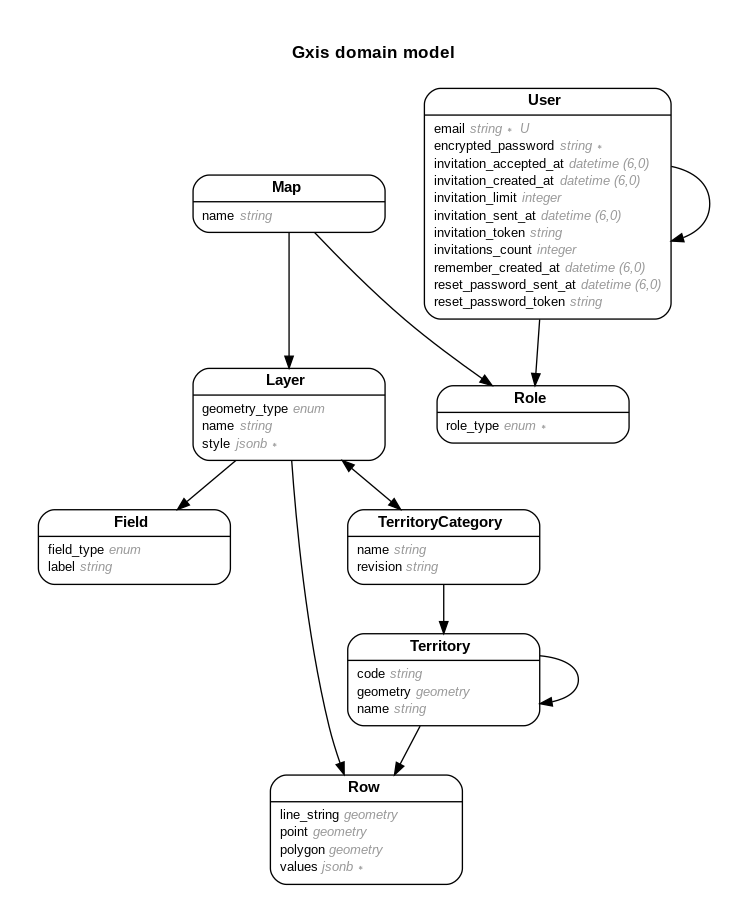
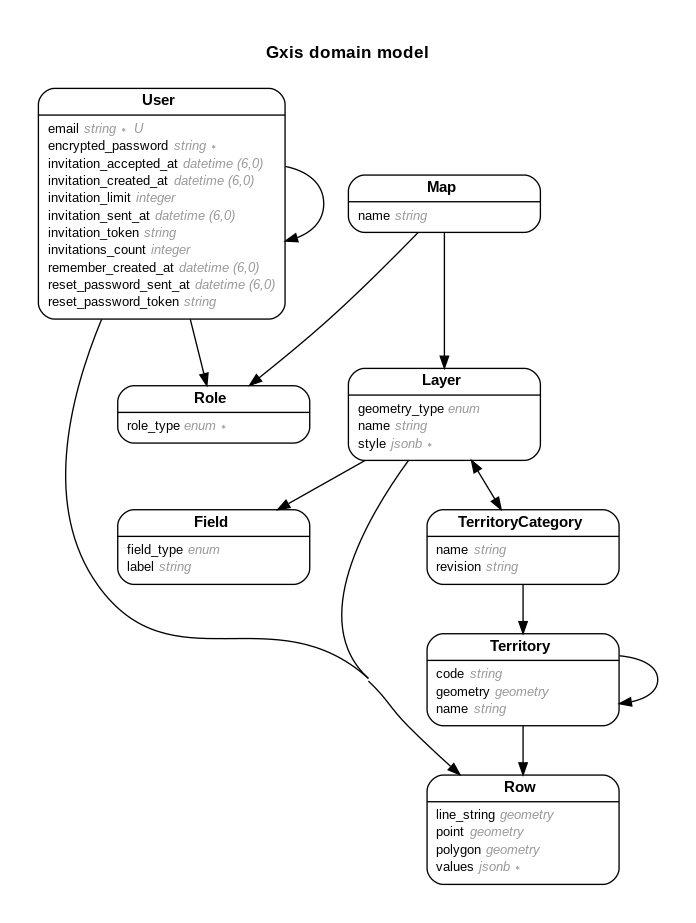
Row model: assign an user to each row

diff --git a/db/schema.rb b/db/schema.rb
@@ -10,7 +10,7 @@
 #
 # It's strongly recommended that you check this file into your version control system.
 
-ActiveRecord::Schema[7.0].define(version: 2022_07_21_154126) do
+ActiveRecord::Schema[7.0].define(version: 2022_09_06_083454) do
   # These are extensions that must be enabled in order to support this database
   enable_extension "pg_trgm"
   enable_extension "pgcrypto"
@@ -92,6 +92,8 @@ ActiveRecord::Schema[7.0].define(version: 2022_07_21_154126) do
     t.geometry "polygon", limit: {:srid=>4326, :type=>"st_polygon"}
     t.geometry "line_string", limit: {:srid=>4326, :type=>"line_string"}
     t.uuid "territory_id"
+    t.uuid "author_id"
+    t.index ["author_id"], name: "index_rows_on_author_id"
     t.index ["layer_id"], name: "index_rows_on_layer_id"
     t.index ["territory_id"], name: "index_rows_on_territory_id"
     t.check_constraint "num_nonnulls(point, line_string, polygon, territory_id) = 1"
@@ -147,6 +149,7 @@ ActiveRecord::Schema[7.0].define(version: 2022_07_21_154126) do
   add_foreign_key "roles", "maps"
   add_foreign_key "roles", "users"
   add_foreign_key "rows", "territories"
+  add_foreign_key "rows", "users", column: "author_id"
   add_foreign_key "territories", "territories", column: "parent_id"
   add_foreign_key "territories", "territory_categories"
   add_foreign_key "users", "users", column: "invited_by_id"

diff --git a/app/models/row.rb b/app/models/row.rb
@@ -9,20 +9,24 @@
 #  values       :jsonb            not null
 #  created_at   :datetime         not null
 #  updated_at   :datetime         not null
+#  author_id    :uuid
 #  layer_id     :uuid
 #  territory_id :uuid
 #
 # Indexes
 #
+#  index_rows_on_author_id     (author_id)
 #  index_rows_on_layer_id      (layer_id)
 #  index_rows_on_territory_id  (territory_id)
 #
 # Foreign Keys
 #
+#  fk_rails_...  (author_id => users.id)
 #  fk_rails_...  (territory_id => territories.id)
 #
 class Row < ApplicationRecord
   belongs_to :layer
+  belongs_to :author, class_name: "User"
   belongs_to :territory, -> { with_geojson }, inverse_of: :rows, optional: true
 
   after_update_commit -> do

diff --git a/test/models/row_test.rb b/test/models/row_test.rb
@@ -9,16 +9,19 @@
 #  values       :jsonb            not null
 #  created_at   :datetime         not null
 #  updated_at   :datetime         not null
+#  author_id    :uuid
 #  layer_id     :uuid
 #  territory_id :uuid
 #
 # Indexes
 #
+#  index_rows_on_author_id     (author_id)
 #  index_rows_on_layer_id      (layer_id)
 #  index_rows_on_territory_id  (territory_id)
 #
 # Foreign Keys
 #
+#  fk_rails_...  (author_id => users.id)
 #  fk_rails_...  (territory_id => territories.id)
 #
 require "test_helper"

diff --git a/db/migrate/20220906083454_add_role_reference_to_row.rb b/db/migrate/20220906083454_add_role_reference_to_row.rb
@@ -1,0 +1,12 @@
+class AddRoleReferenceToRow < ActiveRecord::Migration[7.0]
+  def change
+    add_reference :rows, :author, type: :uuid
+    up_only do
+      Row.all.each do |row|
+        row.author = row.layer.map.users.merge(Role.owner).first
+        row.save
+      end
+    end
+    add_foreign_key :rows, :users, column: :author_id
+  end
+end

diff --git a/app/controllers/rows_controller.rb b/app/controllers/rows_controller.rb
@@ -13,7 +13,7 @@ class RowsController < ApplicationController
   end
 
   def create
-    @row = authorize Row.create(layer: @layer, **row_params)
+    @row = authorize Row.create(layer: @layer, **row_params, author: current_user)
 
     respond_to do |format|
       format.turbo_stream
